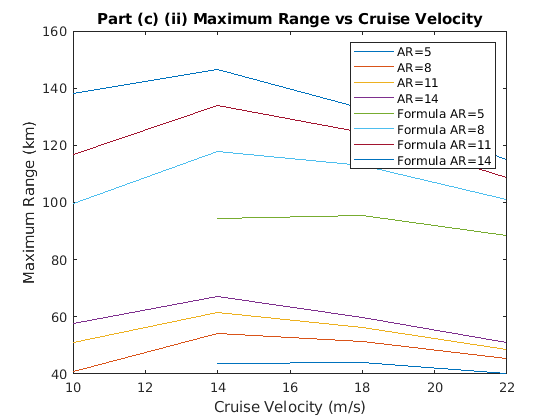
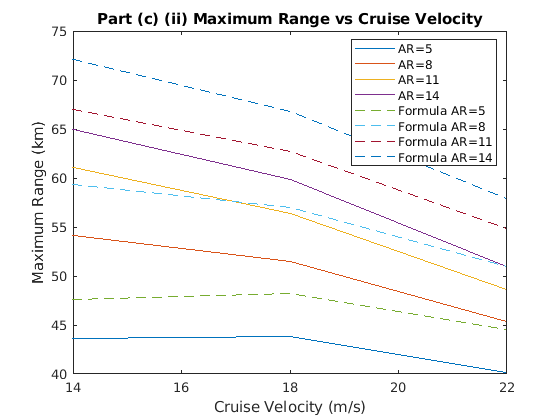
Fix rangeform calculation in H2.

diff --git a/range_calculation_2.m b/range_calculation_2.m
@@ -1,0 +1,218 @@
+function UAV = range_calculation_2(m_payload,v_cruise,b,AR)
+    addpath('DontModify'); % Make sure Matlab can see all the functions it needs to call from the folder: 'DontModify'
+
+    % load in the airfoil and propeller data that you calculated earlier. Make
+    % sure to have run Airfoil_Propeller_Data first
+    load airfoil_and_propeller_info
+%     m_payload = 1.0;                                            % kg, payload mass
+%     v_cruise = 17;                                              % m/s, cruise speed
+%     b = 1.55;                                                   % m, wingspan
+%     AR = 6;                                                     % -, aspect ratio
+
+    % Start with 14000 RPM in problem 1
+    %RPMs = 14000;
+    % Use this range of RPMs for the final part of problem 1
+    RPMs = 4000:500:40000;
+
+    % store vectors for iterating over the RPMs
+    Routput = nan+zeros(size(RPMs));
+    CL_temp = nan+zeros(size(RPMs));
+    J_level_iter = nan+zeros(size(RPMs));
+    GlideRatio = zeros(size(RPMs));
+    m_total_output = zeros(size(RPMs));
+    FlightTime = zeros(size(RPMs));
+    Percent_BattMass = zeros(size(RPMs));
+    Percent_PayloadMass = zeros(size(RPMs));
+    eta_props = zeros(size(RPMs));
+    BODYMASS = zeros(size(RPMs));
+    WINGMASS = zeros(size(RPMs));
+    PROPULSIONMASS = zeros(size(RPMs));
+    RangeForm = zeros(size(RPMs));
+    
+    % iterate over the RPMs to get the final value
+    for RPMk = 1:length(RPMs)
+        RPM_prop = RPMs(RPMk);
+        %% input specific for your UAV
+        n = RPM_prop/60;                                        % propeller rotations per second
+        S = b^2/AR;                                             % wing area calculation
+        n_props = 4;                                            % number of propellers
+        m_avionics = 0.132;                                     % kg, avionics mass
+        Dprop = 0.23;                                           % m, propeller diameter
+        zeta = 1.3;                                             % max thrust to weight ratio (safety factor)
+        m_prop = 10/1000;                                       % propeller weight (each)
+        tovercroot = 0.12;                                      % wing root thickness to chord ratio 
+        lambda = 1;                                             % -, taper ratio    
+        % t_hover = 60 for the final two parts of problem 1 and for problem of 2
+        t_hover = 60;                                            % s, hover time
+
+        %% general information on batteries/efficiencies (Li-ion) - given
+        k_battery = 150;                                        % battery energy density, Wh/kg
+        f_battery = 0.8;                                        % fraction of battery useable
+        k_esc = 14000;                                          % energy density of ESC, W/kg
+        eta_esc = 0.9;                                          % ESC efficiency
+        k_motor = 3400;                                         % energy density of motor, W/kg
+        eta_motor = 0.7;                                        % efficiency of motor
+        rho = 1.225;                                            % air density, kg/m^3
+        g = 9.81;                                               % gravity, m/s^2
+        eta_int = 0.95;                                         % interference loss, taken from table 2.3 in flemish thesis
+        e = 0.7;                                                % oswald efficiency, assumed
+        Nz = 4;                                                 % ultimate loading
+
+        %% propeller info - insert your calculations here for the propeller
+        % get propeller efficiency and CT and CP. Use get_propeller_parameters_static
+        [CP_prop, CT_prop] = get_propeller_parameters_static(static_prop, RPM_prop);
+        % get the propeller power and thrust, Pprop = ?; Tprop = ?;
+        Pprop = CP_prop * rho * n^3 * Dprop^5;                % propeller power, Watts
+        Tprop =  CT_prop * rho * n^2 * Dprop^4;               % propeller thrust, N
+        %% masses calculations
+        m_total = (eta_int * n_props * Tprop) / (g * zeta);            % total mass, kg
+        m_fixed = m_payload + m_avionics;                        % fixed mass, kg
+        m_body = 0.15 * m_total + 0.05 * m_payload;              % body mass, kg
+        m_wing = 0.0038 * (Nz * m_total)^1.06 * (AR^0.38) * (S^0.25) * (1 + lambda)^0.21 * (tovercroot^-0.14); % wing mass, kg
+        m_esc = (1 / k_esc) * (Pprop / eta_motor);               % esc weight (each)
+        m_motor = (1 / k_motor) * Pprop;                         % motor weight (each)
+        m_battery = m_total - m_body - m_wing - m_fixed - n_props * (m_motor + m_esc + m_prop); % battery weight
+        % calculate cargo bay size - include batteries + fixed. This is scaled and given for the first two problems. You may change it for your own vehicle as long as you justify your changes.
+        m_hold = m_fixed + m_battery;                            % cargo bay size
+        BODYMASS(RPMk) = m_body;
+        WINGMASS(RPMk) = m_wing;
+        PROPULSIONMASS(RPMk) = n_props*(m_motor+m_esc+m_prop);
+        dims = [.1 .2 .25]*(m_hold^(1/3));                      % calculate the cargo bay size based off this (empirical)
+        hbody = dims(1); 
+        lbody = dims(3);
+        wbody = dims(2); 
+
+        % if the battery mass is positive and the propeller fits then continue on with the analyis, otherwise stop - this is not a valid RPM    
+        if(m_battery>0 && Dprop<wbody/1.25)   
+            %% needed CL and CD
+            Percent_BattMass(RPMk) = m_battery / m_total;       % calculate proportion battery mass compared to the weight of the entire vehicle
+            Percent_PayloadMass(RPMk) = m_payload / m_total;    % calculate proportion payload mass compared to the weight of the entire vehicle
+            % calculate the dynamic pressure, q
+            q = 0.5 * rho * v_cruise^2;
+            % calculate the coefficient of lift
+            CL = (m_total * g) / (q * S);
+            % check that CL is a reasonable value. If not, go on to the next iteration
+            CLmax_possible = 1.27;
+            if(CL>CLmax_possible*.9)
+                CL_temp(RPMk) = nan;
+                continue % Break out of the main "for" loop
+            end
+            CL_temp(RPMk) = CL;
+
+            % get the profile drag for this CL. Use the profile_drag function you created earlier
+            CD0 = profile_drag(CL);
+            % get the body drag using the relationship given in class
+            ct_ratio = lbody/hbody;
+            CDstar = getCDstar(ct_ratio);
+            % calculate the scaled frontal drag coefficient
+            Afront = wbody * hbody;        
+            CDbodyfront = CDstar * (Afront / S);
+            % calculate the total CD
+            CD = CDbodyfront + CD0 + (CL^2) / (pi * AR * e);
+            % calculate the glide ratio here
+            GlideRatio(RPMk) = CL/CD;
+            % calculate the thrust needed for level flight
+            D_level = CD * q * S;
+
+        %% calculate n for cruise flight and hovering flight
+            Tprop_hover = m_total * g;
+            Tprop_level = D_level;
+            % calculate the needed thrust per propeller for both level and hovering flight       
+            Tprop_hover_per_prop = Tprop_hover / n_props;
+            Tprop_level_per_prop = Tprop_level / n_props;
+            % get the rotations per second needed for each of these using the provided functions        
+            n_hover = find_n_for_thrust_static(static_prop, Dprop, rho, Tprop_hover_per_prop);
+            n_level = find_n_for_thrust(propellerdata, RPM_propellers, v_cruise, Dprop, rho, Tprop_level_per_prop);
+            % calculate the advance ratio for level flight
+            J_level = v_cruise / (n_level * Dprop);
+            J_level_iter(RPMk) = J_level;
+            % get the propeller parameters for level flight
+            [CP_hover, CT_hover] = get_propeller_parameters_static(static_prop, RPM_prop);
+            [eta_level, CP_level, CT_level] = get_propeller_parameters(propellerdata, RPM_propellers, RPM_prop, J_level); 
+            % calculate the power needed for level and hovering flight
+            Pprop_hover = n_props * CP_hover * rho * n_hover^3 * Dprop^5;
+            Pprop_level = n_props * CP_level * rho * n_level^3 * Dprop^5;
+            % store the propeller efficiency of each step, eta_props(RPMk) = ?;
+            eta_props(RPMk) = J_level * (CT_level / CP_level);           % propeller efficiency
+
+        %% battery calculations
+            % calculate the battery energy 
+            E_battery = m_battery * k_battery;                           % battery energy, Wh
+            % calculate the battery power needed for hover and level flight
+            Pbat_hover = Pprop_hover / (eta_esc * eta_motor);
+            Pbat_level = Pprop_level / (eta_esc * eta_motor);
+            % calculate the time spent in level flight
+            t_level = (f_battery * (E_battery * 3600) - t_hover * Pbat_hover) / Pbat_level;
+            % calculate the time spent total in flight
+            FlightTime(RPMk) = t_level / 3600;                               % time in hours
+            % calculate the flight range
+            R = t_level * v_cruise;                                  % Range, m
+            R = R/1000;                                              % Range, km
+            % store the range and mass
+            Routput(RPMk) = R;
+            m_total_output(RPMk) = m_total;
+
+        %% Check range calculation against complete formula
+            %if t_hover == 0
+                eta_propulsion = eta_esc * eta_motor * eta_props(RPMk);
+                Rformula = (k_battery * 3600 / g) * f_battery * Percent_BattMass * (CL / CD) * eta_propulsion; % range based on complete formula (m)
+                Rformula = Rformula/1000; % convert to km
+                RangeForm(RPMk) = max(Rformula);
+                %fprintf('R from code: %6.2f, R from formula: %6.2f\n', R, Rformula);
+            %end
+        else
+            % if there is no battery mass or the propeller is too big, skip the iteration
+            GlideRatio(RPMk) = NaN;
+            Routput(RPMk) = NaN;
+            m_total_output(RPMk) = NaN;
+            eta_props(RPMk) = NaN;
+            CL_temp(RPMk) = nan;
+            J_level_iter(RPMk) = nan;
+            RangeForm(RPMk) = nan;
+        end
+
+    end
+
+    % store all the outputs here
+    Index = find(Routput == nanmax(Routput),1); % If you want to maximize range
+    % Index = find(FlightTime == nanmax(FlightTime),1); % If you want to maximize flight time
+    if ~isempty(Index)
+        UAV.range = Routput(Index);
+        UAV.J = J_level_iter(Index);
+        UAV.MaxGlideRatio = GlideRatio(Index);
+        UAV.mass = m_total_output(Index);
+        UAV.RPM = RPMs(Index);
+        UAV.FlightTime = FlightTime(Index);
+        UAV.BattMass = Percent_BattMass(Index);
+        UAV.PayloadMass = Percent_PayloadMass(Index);
+        UAV.eta_propulsion = eta_props(Index);
+        UAV.BODYMASS = BODYMASS(Index);
+        UAV.WINGMASS = WINGMASS(Index);
+        UAV.PROPULSIONMASS = PROPULSIONMASS(Index);
+        UAV.rangeform = RangeForm(Index);
+    else
+        UAV.range = nan;
+        UAV.J = nan;
+        UAV.MaxGlideRatio = nan;
+        UAV.mass = nan;
+        UAV.RPM = nan;
+        UAV.FlightTime = nan;
+        UAV.BattMass = nan;
+        UAV.PayloadMass = nan;
+        UAV.eta_propulsion = nan;
+        UAV.BODYMASS = nan;
+        UAV.WINGMASS = nan;
+        UAV.PROPULSIONMASS = nan;
+        UAV.rangeform = nan;
+    end
+
+    %% this code plots the RPM outputs. You may use it to get the outputs for the first problem. 
+    % You should also use it in order to check that the RPM range input is correct for your vehicle
+
+%     figure; 
+%     plot(RPMs,Routput, 'LineWidth', 2);
+%     set(gca, 'FontSize', 12);
+%     xlabel('max propeller RPM')
+%     ylabel('range (km)')
+%     fprintf('Max range = %6.2fkm\n', max(Routput));
+end

diff --git a/ultimate_optimization.m b/ultimate_optimization.m
@@ -9,17 +9,17 @@ tic;
 
 %% Ultimate Optimization
 % define the minimum and maximum payload
-min_payload = 0.5; % kg
-max_payload = 3; % kg
-nStepsP = 6;
+min_payload = 1; % kg
+max_payload = 1; % kg
+nStepsP = 1;
 % define the minimum and maximum cruise velocity
-min_velocity = 18; % m/s
-max_velocity = 18; % m/s
-nStepsV = 1;
+min_velocity = 10; % m/s
+max_velocity = 22; % m/s
+nStepsV = 4;
 % define the minimum and maximum wingspan
-min_wingspan = 1.55; % m
-max_wingspan = 1.55; % m
-nStepsWS = 1;
+%in_wingspan = 1.55; % m
+%max_wingspan = 1.55; % m
+nStepsWS = 4;
 % define the minimum and maximum aspect ratio
 min_AR = 5; % -
 max_AR = 14; % -
@@ -28,9 +28,9 @@ nStepsAR = 4;
 % use those to calculate the range for the optimization
 payload_U = linspace(min_payload,max_payload,nStepsP);
 v_U = linspace(min_velocity,max_velocity,nStepsV);
-wing_U = linspace(min_wingspan,max_wingspan,nStepsWS);
+%wing_U = linspace(min_wingspan,max_wingspan,nStepsWS);
 AR_U = linspace(min_AR,max_AR,nStepsAR);
-%wing_U = sqrt((AR_U * 1.55^2)/6);
+wing_U = sqrt((AR_U * 1.55^2)/6);
 
 %Define matrices for data collection
 RANGES_U = zeros(nStepsAR, nStepsWS, nStepsV, nStepsP);
@@ -44,13 +44,14 @@ Eta_PRPLSN_U = zeros(nStepsAR, nStepsWS, nStepsV, nStepsP);
 bodymass_U = zeros(nStepsAR, nStepsWS, nStepsV, nStepsP);
 wingmass_U = zeros(nStepsAR, nStepsWS, nStepsV, nStepsP);
 propulsionmass_U = zeros(nStepsAR, nStepsWS, nStepsV, nStepsP);
+RANGEFORM_U = zeros(nStepsAR, nStepsWS, nStepsV, nStepsP);
 
 
 % Loop
 for j_ar = 1:nStepsAR
-    for j_w = 1:nStepsWS
+    %for j_w = 1:nStepsWS
+    for j_w = j_ar
         for j_v = 1:nStepsV
-       %for j_w = j_v
             for j_m = 1:nStepsP
                 mass_Uav = payload_U(j_m);
                 velocity_Uav = v_U(j_v);
@@ -68,6 +69,7 @@ for j_ar = 1:nStepsAR
                 bodymass_U(j_ar,j_w,j_v,j_m) = UAV.BODYMASS;
                 wingmass_U(j_ar,j_w,j_v,j_m) = UAV.WINGMASS;
                 propulsionmass_U(j_ar,j_w,j_v,j_m) = UAV.PROPULSIONMASS;
+                RANGEFORM_U(j_ar, j_w, j_v, j_m) = UAV.rangeform;
                 fprintf('AR=%d/%d, WS=%d/%d, Vel=%d/%d, PL=%d/%d\n', j_ar,nStepsAR , j_w,nStepsWS , j_v,nStepsV , j_m,nStepsP);
             end
         end
@@ -109,24 +111,22 @@ UAV_propulsionmass = propulsionmass_U(A,B,C,D);
 % title('Part (c) (i) Maximum Range vs Cruise Velocity')
 
 %% Part c, part ii
-% for i = 1:nStepsAR
-%     plot(v_U, reshape(max(RANGES_U(:, i, :, :)), 1, nStepsV), 'DisplayName', strcat('AR=', num2str(AR_U(i))));
-%     hold on
-% end
-% 
-% % additional simulated
-% rform_U = (5.5046e+04) * BATTS_U .* GlideRatio_U .* Eta_PRPLSN_U / 1000;
-% 
-% for i=1:nStepsAR
-%     plot(v_U, reshape(max(rform_U(:, i, :, :)), 1, nStepsV), 'DisplayName', strcat('Formula AR=', num2str(AR_U(i))));
-%     hold on
-% end
-% 
-% hold off
-% legend
-% xlabel('Cruise Velocity (m/s)')
-% ylabel('Maximum Range (km)')
-% title('Part (c) (ii) Maximum Range vs Cruise Velocity')
+for i = 1:nStepsAR
+    plot(v_U, reshape(max(RANGES_U(:, i, :, :)), 1, nStepsV), 'DisplayName', strcat('AR=', num2str(AR_U(i))));
+    hold on
+end
+
+% additional simulated
+for i=1:nStepsAR
+    plot(v_U, reshape(max(RANGEFORM_U(:, i, :, :)), 1, nStepsV), 'LineStyle', '--', 'DisplayName', strcat('Formula AR=', num2str(AR_U(i))));
+    hold on
+end
+
+hold off
+legend
+xlabel('Cruise Velocity (m/s)')
+ylabel('Maximum Range (km)')
+title('Part (c) (ii) Maximum Range vs Cruise Velocity')
 
 %% Part d, aspect ratio
 % for i = 1:nStepsP
